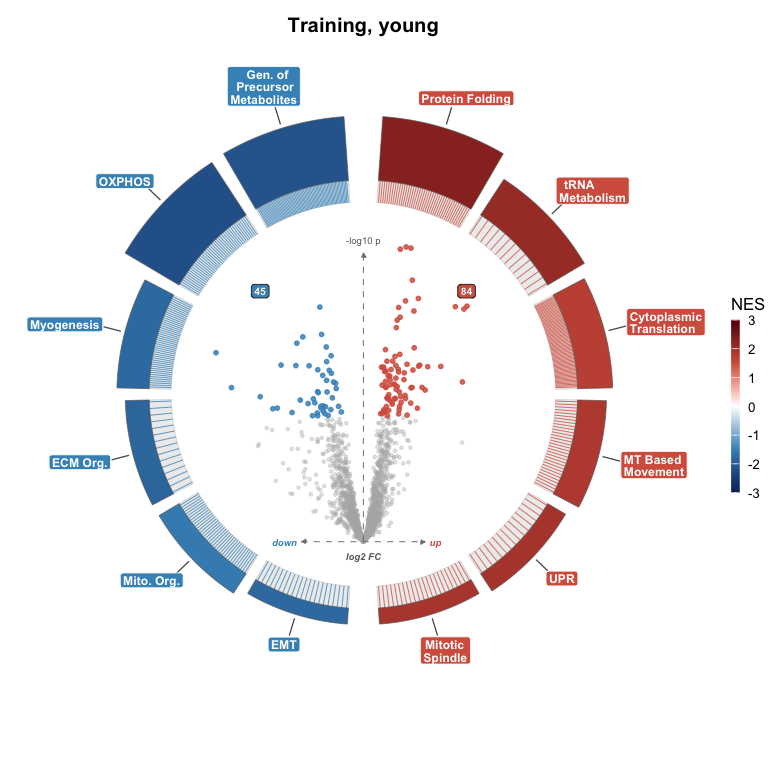
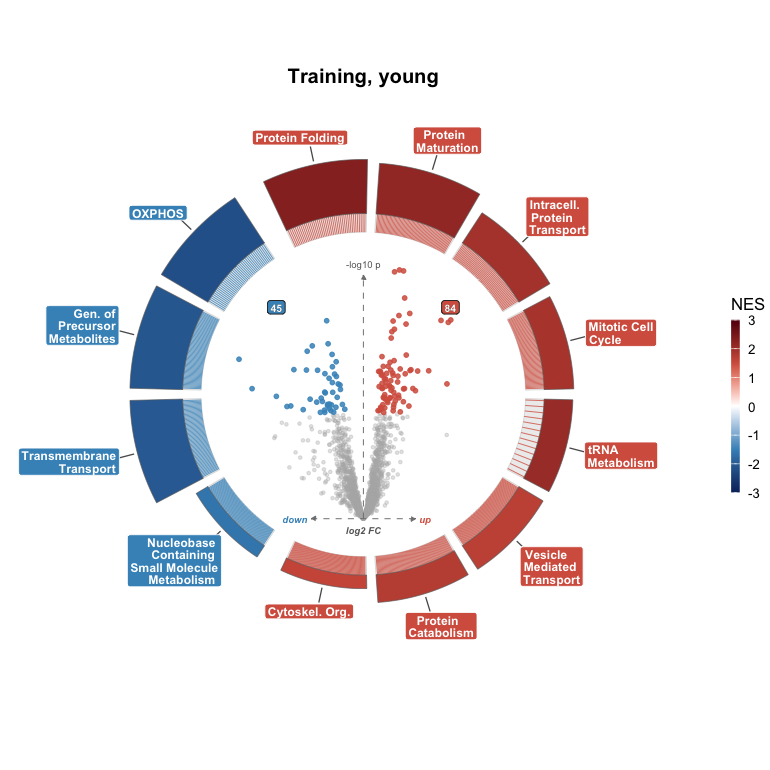
release 2.1.0 with the pilot's fixes

Changed region(s): [[0.0, 0.0, 0.9351, 0.8727]]

diff --git a/NEWS.md b/NEWS.md
@@ -1,4 +1,4 @@
-# enrichVolcano (development version)
+# enrichVolcano 2.1.0
 
 ## Breaking changes
 
